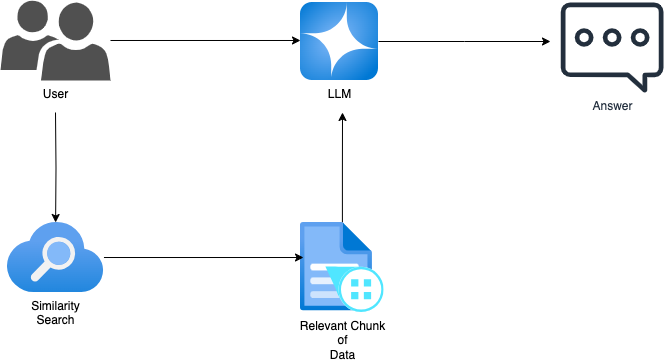
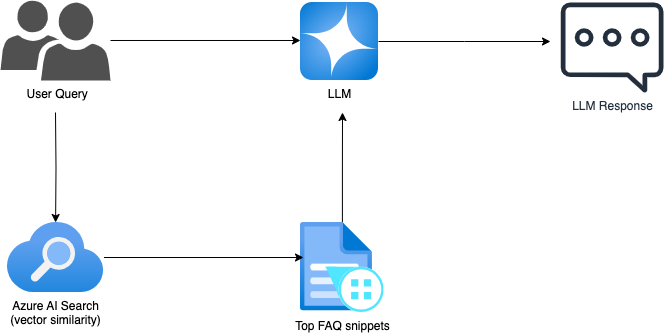
Update README

diff --git a/README.md b/README.md
@@ -1,29 +1,91 @@
-# GEN AI FAQ Chatbot
+# 🧠 Insurance FAQ Chatbot (Generative AI Prototype)
 
-  
-Few years back, to implement a chatbot you have to define intents, group relevant utterences together and define named entities.
+A next‑generation FAQ chatbot for insurance, built with **RAG architecture** using **Azure AI Search**, **Azure OpenAI**, and **LangChain**. No manual intents or entity models—just indexed FAQs and real-time generation.
 
+---
 
-With the emerge of Large Language Models, would it be possible to implement a Chatbot without defining intents?
+## 🚀 Why This Project Matters
 
-This repository use the class insurance QA dataset, Azure OpenAI, Azure AI Search to implement an Insurance FAQ Chatbot without defining intents
+- **Fast deployment**: Goes from CSV to chatbot in less than a day—no training required.
+- **Accurate responses**: Only uses approved content from your FAQ dataset.
+- **Human-level engagement**: Natural, conversational answers that understand context.
+- **Scalable & future‑proof**: Easily extend across products (e.g., home, motor) or channels (web, bot).
 
-## Architecture
+---
+
+## 🎯 Features
+
+- **Semantic similarity search** via Azure AI Search  
+- **RAG pipeline** orchestrated by LangChain  
+- **LLM-powered answers** through Azure OpenAI (e.g., `gpt-4.1`)  
+- **Modular LLM support**: Swap Azure OpenAI, OpenAI, or Ollama models  
+- **Simple CLI interface** for testing queries
+
+---
+
+## ⚙ Architecture
+
 
 ![Architecture for the project](./images/InsuranceQA_Architect.png)
+- FAQ dataset is transformed into document chunks  
+- Chunks are indexed in Azure AI Search with embeddings  
+- On query: similar chunks retrieved, combined into prompt  
+- LLM generates a grounded, accurate response
+
 
 ## Prerequisite
 
 - Azure AI Search
 - Azure OpenAI or OpenAI or Ollama
 
-## Features
+## 📦 Getting Started
 
-- Just ask a question about insurance policies, claims, and more!
+### 1. Clone the repo
+```bash
+git clone https://github.com/samtin/genai_faq_chatbot.git
+cd genai_faq_chatbot
+python -m venv .venv
+source .venv/bin/activate
+```
+### 2. Install dependencies
+``` bash
+pip install -r requirements.txt
+```
+
+### 3. Set up environment variables
+
+Create a `.env` file with:
+```env
+AZURE_OPENAI_ENDPOINT=
+AZURE_OPENAI_API_KEY=
+AZURE_OPENAI_CHAT_DEPLOYMENT=
+AZURE_SEARCH_ENDPOINT=
+AZURE_SEARCH_ADMIN_KEY=
+LLM_PROVIDER=azure_openai  # or openai, ollama
+```
+### 4. Load FAQ data into vector store
+```bash
+python
+>>> from your_module import create_vector_store
+>>> create_vector_store()
+```
+### 5. Test locally
+```bash
+python
+>>> from your_module import query_llm
+>>> print(query_llm("Does homeowners insurance cover garage doors?", k=4).content)
+```
+
+## ⚙ Optional: Streamlit Chat UI
+Run:
+```bash
+streamlit run chat_ui.py
+```
+to launch a web-based chat interface.
 
 ![Screenshot of Chat UI](./images/chat_ui_screenshot.png)
 
-- Promt Template used:
+## Promt Template used:
 
 ```
 template="""
@@ -34,40 +96,49 @@ template="""
         Dataset snippets: {docs}
         """
 ```
-## Setup
 
-- Clone this repository.
-- Create a [virtual environment.](https://docs.python.org/3/library/venv.html)
-- Install the required Python packages:
-
-``` python
-pip install -r requirements.txt
+## 🧱 Code Structure
+``` folder
+.
+├── app.py             # Core logic: vector store + query_llm()
+├── chat_ui.py         # Streamlit-based chat frontend
+├── create_index.py    # (optional) indexing FAQ into Azure Search
+├── requirements.txt
+└── README.md
 ```
 
-- Set up your Azure AI Search service and get your endpoint URL and admin key.
-- Set up your Azure OpenAI service and get your endpoint URL and admin key.
-- Deploy text-embedding-ada-002 and gpt-4.1 in Azure OpenAI
-- If you use ollama, download gemma3:12b
-- Create a .env file in the root directory of the project and add your Azure Search endpoint URL, admin key, Azure OpenAI endpoint URL and API key (look at the `.env.example):
+## 📌 Customize & Extend
+📄 FAQ Dataset: Replace CSV with richer data (PDFs, DOCX)
 
-``` bash
-AZURE_SEARCH_ENDPOINT="<YOUR_AZURE_SEARCH_ENDPOINT_URL>"
-AZURE_SEARCH_ADMIN_KEY="<YOUR_AZURE_SEARCH_ADMIN_KEY>"
-AZURE_OPENAI_API_KEY="<YOUR_AZURE_OPENAI_API_KEY>"
-AZURE_OPENAI_ENDPOINT="<YOUR_AZURE_OPENAI_ENDPOINT_URL>"
-OPENAI_API_KEY="<YOUR_OPENAI_API_KEY>"
-LLM_PROVIDER="azure_openai"
-```
+💬 LLM Variants: test with gpt‑4, openai, or local Ollama models
 
-## Usage
+📊 Frontend: Add citation links, chat history, voice UI
 
-1. Run the Streamlit application:
-``` python
-streamlit run streamlit.py
-```
-2. Open the application in your web browser.
-3. Ask a question about insurance policies, claims, etc.
-4. Click the "Submit" button to generate an answer.
+🔁 Deployment: Containerize with Docker, deploy to Azure App Service
+
+
+## 📈 Business Impacts
+💸 Reduce call center costs by 20–40% via self-service
+
+⏱ Deliver solutions 10× faster than intent-based bots
+
+✅ Ensure compliance—answers only from approved sources
+
+🔄 Extendable to other business domains or internal support
+
+
+## 🤝 Contributions & Feedback
+This is a prototype—your feedback or PRs to:
+
+Support new data formats
+
+Local LLM integration
+
+Frontend improvements
+
+Feel free to fork, raise issues, or connect via LinkedIn/email.
+
+
 
 ## Author
 
